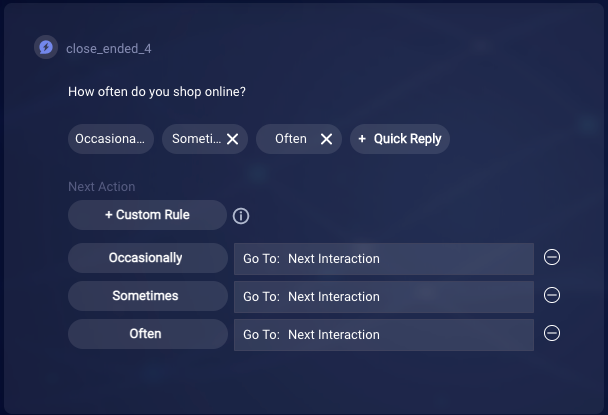
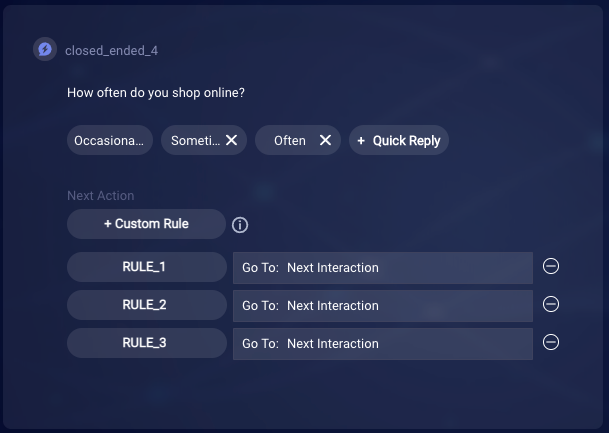
Add closed ended question doc update

diff --git a/pages/Documents/ConversationalAI/ConversationBuilder/Bots/post-conversation-survey-bots.md b/pages/Documents/ConversationalAI/ConversationBuilder/Bots/post-conversation-survey-bots.md
@@ -140,8 +140,14 @@ A closed-ended question is a multiple choice question that has a custom, predefi
 
 <img class="fancyimage" style="width:600px" src="img/ConvoBuilder/surveyBot_closed.png">
 
-{: .important}
-When adding a closed-ended, custom question, remember to update the conditions in each, corresponding rule that is added automatically.<br><br>Additionally, be aware that the values are reported in the order of the buttons. So, in Analytics Builder, when setting up a custom report, ensure you set up your columns in the same order and name the columns accordingly.
+In the closed-ended question, every answer choice has two values:
+
+<img class="fancyimage" style="width:600px" src="img/ConvoBuilder/surveyBot_closed2.png">
+
+* **Text value** - This value is shown to the consumer as the answer choice.
+* **Reporting value** - When the answer choice is selected by the consumer, this value is reported in Analytics Builder.
+
+As you can see from the Acknowledgment checkbox in the image above, changing the **Reporting value** causes answer IDs to be regenerated. Therefore, if you change the **Reporting value**, you'll need to update accordingly any custom reports that are based on answer IDs.
 
 #### Open-ended, custom
 
